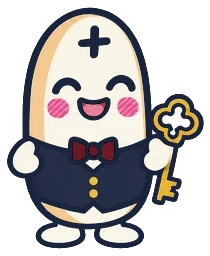
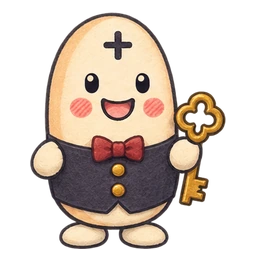
Repaint six Kampong Glam townsfolk and their idle cels

diff --git a/src/render/creatureRigs.js b/src/render/creatureRigs.js
@@ -416,8 +416,9 @@ const RIG_DATA = {
 const TOWN_DATA = {
   farmer: { W: 229, H: 300, ref: [9, 9, 218, 296], piv: { body: [0.4694, 0.506], arm: [0.5775, 0.6075], body_blink: [0.4694, 0.506], arm_wave: [0.6228, 0.552] } },
   fletcher: { W: 234, H: 300, ref: [13, 9, 225, 296], piv: { body: [0.5326, 0.5199], arm: [0.3256, 0.5755], body_blink: [0.5326, 0.5199], arm_wave: [0.3592, 0.5372] } },
-  guide: { W: 221, H: 300, ref: [9, 9, 212, 296], piv: { body: [0.4477, 0.5045], arm: [0.5108, 0.5771], body_blink: [0.4477, 0.5045] } },
-  hawker: { W: 244, H: 300, ref: [9, 9, 234, 296], piv: { body: [0.5774, 0.5027], arm: [0.3355, 0.5956], body_blink: [0.5774, 0.5027], arm_wave: [0.3744, 0.4729] } },
+  // The repainted starter residents share a 256px canvas and a common foot line.
+  guide: { W: 256, H: 256, ref: [42, 12, 214, 249], piv: { body: [0.5, 0.5], body_blink: [0.5, 0.5], arm: [0.6731, 0.6717] } },
+  hawker: { W: 256, H: 256, ref: [29, 12, 226, 249], piv: { body: [0.5, 0.5], body_blink: [0.5, 0.5], arm: [0.3259, 0.631], arm_wave: [0.3259, 0.631] } },
   light_priestess: { W: 220, H: 300, ref: [9, 9, 211, 296], piv: { body: [0.4939, 0.5131], body_blink: [0.4939, 0.5131] } },
   mage: { W: 213, H: 300, ref: [9, 9, 205, 296], piv: { body: [0.4674, 0.5329], arm: [0.6373, 0.6696], body_blink: [0.4674, 0.5329], arm_wave: [0.6175, 0.5624] } },
   mercenary_bruiser: { W: 197, H: 300, ref: [13, 9, 188, 296], piv: { body: [0.4724, 0.5113], arm: [0.1756, 0.48], body_blink: [0.4724, 0.5113], arm_wave: [0.1919, 0.4807] } },
@@ -425,12 +426,13 @@ const TOWN_DATA = {
   mercenary_sellsword: { W: 224, H: 300, ref: [9, 9, 215, 296], piv: { body: [0.4059, 0.5115], arm: [0.5433, 0.5477], body_blink: [0.4059, 0.5115], arm_wave: [0.4939, 0.5129] } },
   mercenary_spear_guard: { W: 173, H: 300, ref: [9, 9, 164, 296], piv: { body: [0.4299, 0.5417], body_blink: [0.4299, 0.5417] } },
   shadow_broker: { W: 223, H: 300, ref: [9, 9, 202, 296], piv: { body: [0.4406, 0.5031], arm: [0.6587, 0.5951], body_blink: [0.4406, 0.5031], arm_wave: [0.6013, 0.5143] } },
-  shopkeeper: { W: 245, H: 300, ref: [9, 9, 237, 296], piv: { body: [0.4278, 0.5185], arm: [0.6561, 0.5843], body_blink: [0.4278, 0.5185], arm_wave: [0.6198, 0.5396] } },
-  skills_tutor: { W: 230, H: 300, ref: [9, 9, 221, 296], piv: { body: [0.4479, 0.5239], arm: [0.6755, 0.6377], body_blink: [0.4479, 0.5239], arm_wave: [0.6312, 0.5771] } },
+  pest_officer: { W: 256, H: 256, ref: [22, 12, 233, 249], piv: { body: [0.5, 0.5], body_blink: [0.5, 0.5] } },
+  shopkeeper: { W: 256, H: 256, ref: [31, 12, 225, 249], piv: { body: [0.5, 0.5], body_blink: [0.5, 0.5], arm: [0.6722, 0.6133], arm_wave: [0.6722, 0.6133] } },
+  skills_tutor: { W: 256, H: 256, ref: [41, 12, 215, 249], piv: { body: [0.5, 0.5], body_blink: [0.5, 0.5], arm: [0.6693, 0.6656], arm_wave: [0.6693, 0.6656] } },
   slayer_master: { W: 234, H: 300, ref: [9, 9, 225, 296], piv: { body: [0.47, 0.5193], body_blink: [0.47, 0.5193] } },
   villager: { W: 244, H: 300, ref: [30, 9, 236, 296], piv: { body: [0.5025, 0.5251], arm: [0.3458, 0.5075], body_blink: [0.5025, 0.5251], arm_wave: [0.39, 0.5022] } },
   aworthling: { W: 200, H: 300, ref: [9, 9, 192, 296], piv: { body: [0.4944, 0.5245], body_blink: [0.4944, 0.5245] } },
-  banker: { W: 252, H: 300, ref: [9, 9, 243, 296], piv: { body: [0.4088, 0.5185], arm: [0.5984, 0.6024], body_blink: [0.4088, 0.5185], arm_wave: [0.5689, 0.5325] } },
+  banker: { W: 256, H: 256, ref: [30, 12, 226, 249], piv: { body: [0.5, 0.5], body_blink: [0.5, 0.5], arm: [0.6848, 0.6109], arm_wave: [0.6848, 0.6109] } },
 };
 // --- end of measured data ---
 
